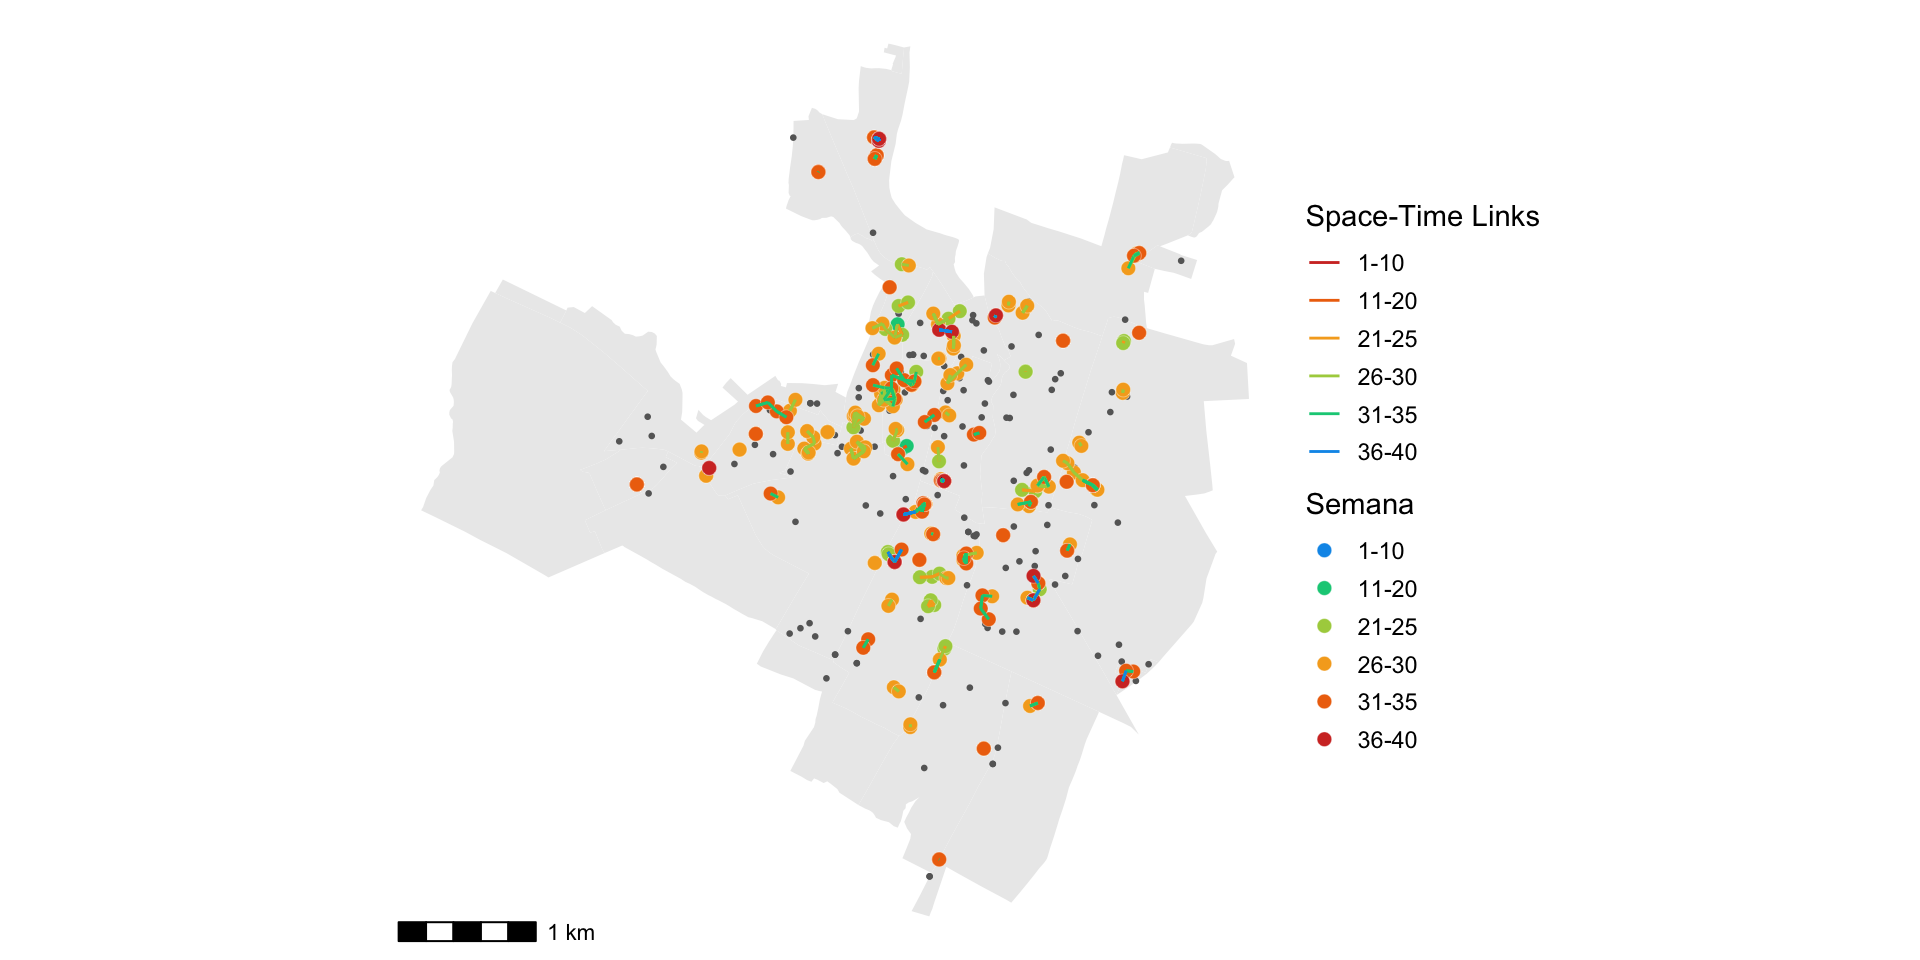
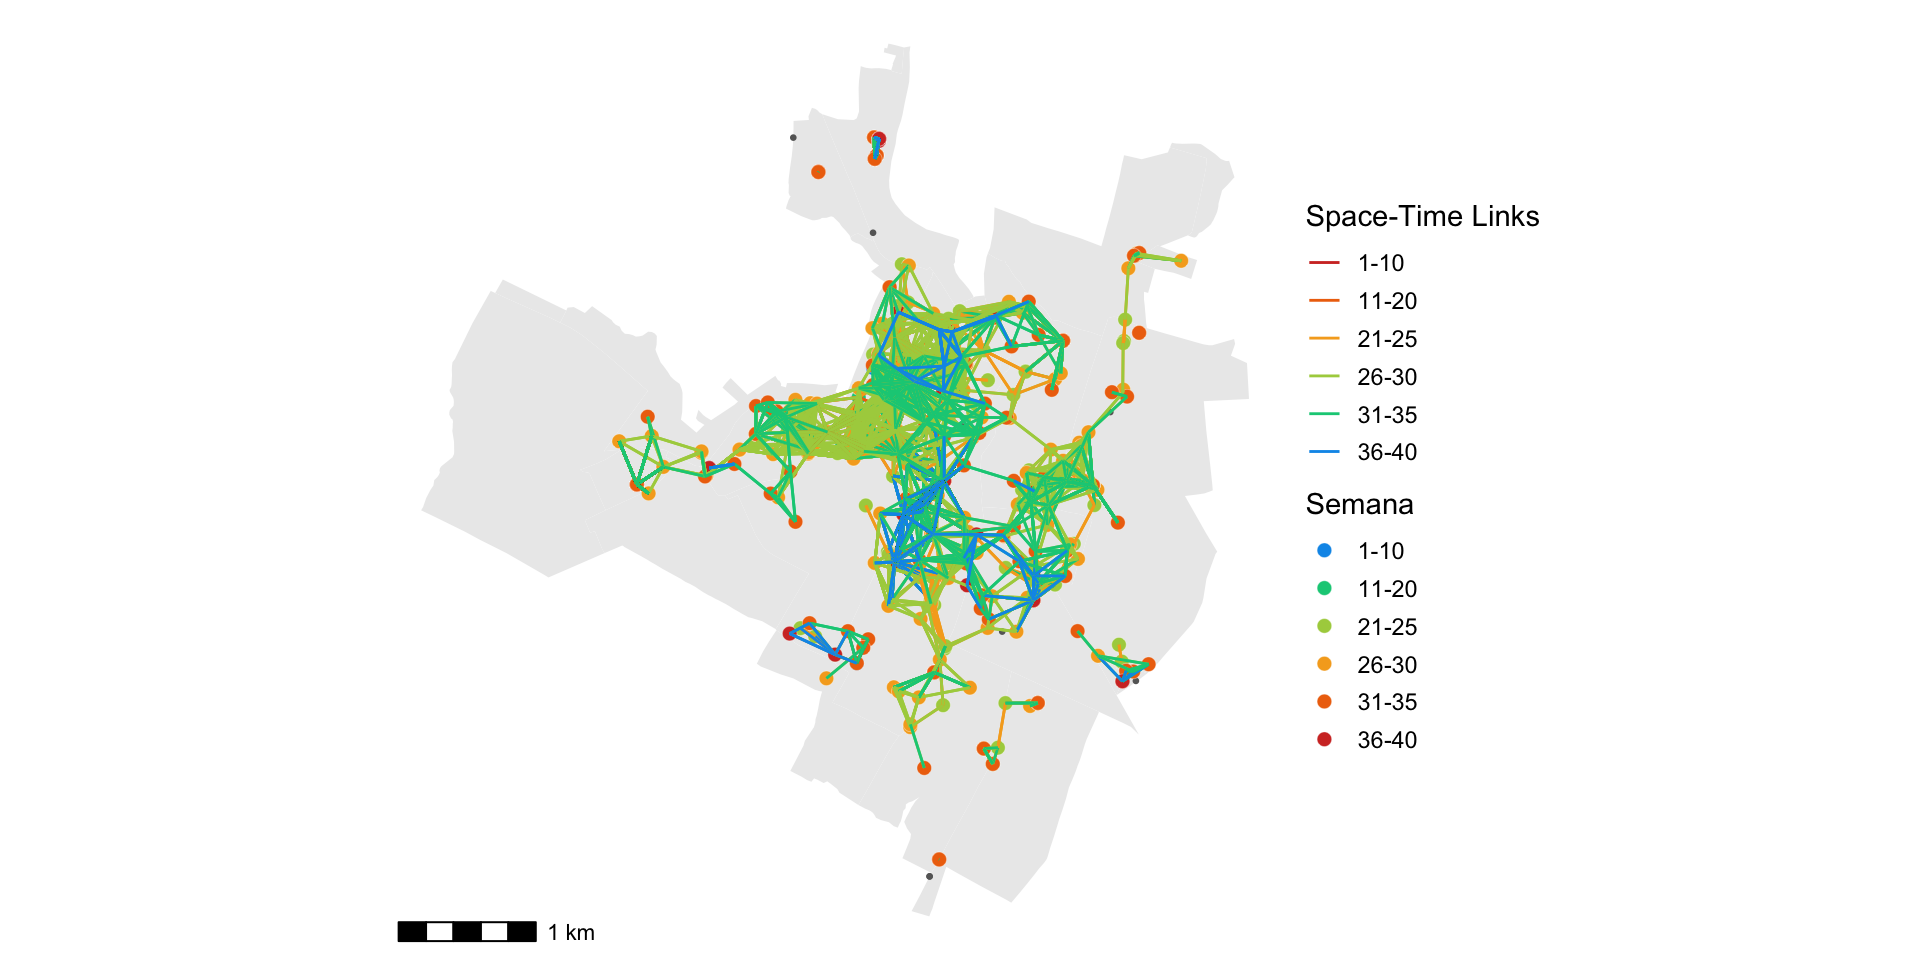
This commmit update the talk

Changed region(s): [[0.3125, 0.2812, 0.5938, 0.8125], [0.5625, 0.6562, 0.5938, 0.7188], [0.5938, 0.25, 0.625, 0.2812]]

diff --git a/mia/21_puebla/index.html b/mia/21_puebla/index.html
@@ -353,12 +353,62 @@ Update: 2023-09-14
 <p><svg aria-hidden="true" role="img" viewbox="0 0 496 512" style="height:1em;width:0.97em;vertical-align:-0.125em;margin-left:auto;margin-right:auto;font-size:inherit;fill:black;overflow:visible;position:relative;"><path d="M165.9 397.4c0 2-2.3 3.6-5.2 3.6-3.3.3-5.6-1.3-5.6-3.6 0-2 2.3-3.6 5.2-3.6 3-.3 5.6 1.3 5.6 3.6zm-31.1-4.5c-.7 2 1.3 4.3 4.3 4.9 2.6 1 5.6 0 6.2-2s-1.3-4.3-4.3-5.2c-2.6-.7-5.5.3-6.2 2.3zm44.2-1.7c-2.9.7-4.9 2.6-4.6 4.9.3 2 2.9 3.3 5.9 2.6 2.9-.7 4.9-2.6 4.6-4.6-.3-1.9-3-3.2-5.9-2.9zM244.8 8C106.1 8 0 113.3 0 252c0 110.9 69.8 205.8 169.5 239.2 12.8 2.3 17.3-5.6 17.3-12.1 0-6.2-.3-40.4-.3-61.4 0 0-70 15-84.7-29.8 0 0-11.4-29.1-27.8-36.6 0 0-22.9-15.7 1.6-15.4 0 0 24.9 2 38.6 25.8 21.9 38.6 58.6 27.5 72.9 20.9 2.3-16 8.8-27.1 16-33.7-55.9-6.2-112.3-14.3-112.3-110.5 0-27.5 7.6-41.3 23.6-58.9-2.6-6.5-11.1-33.3 2.6-67.9 20.9-6.5 69 27 69 27 20-5.6 41.5-8.5 62.8-8.5s42.8 2.9 62.8 8.5c0 0 48.1-33.6 69-27 13.7 34.7 5.2 61.4 2.6 67.9 16 17.7 25.8 31.5 25.8 58.9 0 96.5-58.9 104.2-114.8 110.5 9.2 7.9 17 22.9 17 46.4 0 33.7-.3 75.4-.3 83.6 0 6.5 4.6 14.4 17.3 12.1C428.2 457.8 496 362.9 496 252 496 113.3 383.5 8 244.8 8zM97.2 352.9c-1.3 1-1 3.3.7 5.2 1.6 1.6 3.9 2.3 5.2 1 1.3-1 1-3.3-.7-5.2-1.6-1.6-3.9-2.3-5.2-1zm-10.8-8.1c-.7 1.3.3 2.9 2.3 3.9 1.6 1 3.6.7 4.3-.7.7-1.3-.3-2.9-2.3-3.9-2-.6-3.6-.3-4.3.7zm32.4 35.6c-1.6 1.3-1 4.3 1.3 6.2 2.3 2.3 5.2 2.6 6.5 1 1.3-1.3.7-4.3-1.3-6.2-2.2-2.3-5.2-2.6-6.5-1zm-11.4-14.7c-1.6 1-1.6 3.6 0 5.9 1.6 2.3 4.3 3.3 5.6 2.3 1.6-1.3 1.6-3.9 0-6.2-1.4-2.3-4-3.3-5.6-2z"></path></svg> <a href="https://fdzul.github.io/web_site_fadm/">github.com/fdzul</a></p>
 <p><img data-src="chains_merida.jpg" class="absolute" style="top: 155px; left: 550px; width: 750px; "></p>
 </h4></section>
-<section id="escenarios-de-la-transmisión-activa" class="slide level2">
-<h2><span style="color:#003300">Escenarios de la Transmisión Activa</span></h2>
+<section id="distribución-de-casos-por-municipio" class="slide level2">
+<h2><span style="color:#003300">Distribución de Casos por Municipio</span></h2>
+<hr style="height:2px;border-width:0;color:#330019;background-color:#330019">
+
+<img data-src="index_files/figure-revealjs/unnamed-chunk-1-1.png" width="960" class="r-stretch"></section>
+<section id="transmisión-activa-izucar" class="slide level2">
+<h2><span style="color:#003300">Transmisión Activa Izucar</span></h2>
 <hr style="height:2px;border-width:0;color:#330019;background-color:#330019">
 <div class="cell">
 <div class="cell-output-display">
 <p><img data-src="index_files/figure-revealjs/risk_escenario_actual_izucar-1.png" style="width:100.0%;height:100.0%"></p>
+</div>
+</div>
+</section>
+<section id="transmisión-activa-tehuacán" class="slide level2">
+<h2><span style="color:#003300">Transmisión Activa Tehuacán</span></h2>
+<hr style="height:2px;border-width:0;color:#330019;background-color:#330019">
+<div class="cell">
+<div class="cell-output-display">
+<p><img data-src="index_files/figure-revealjs/risk_escenario_actual_tehuacan-1.png" style="width:100.0%;height:100.0%"></p>
+</div>
+</div>
+</section>
+<section id="transmisión-activa-acatlan" class="slide level2">
+<h2><span style="color:#003300">Transmisión Activa Acatlan</span></h2>
+<hr style="height:2px;border-width:0;color:#330019;background-color:#330019">
+<div class="cell">
+<div class="cell-output-display">
+<p><img data-src="index_files/figure-revealjs/risk_escenario_actual_acatlan-1.png" style="width:100.0%;height:100.0%"></p>
+</div>
+</div>
+</section>
+<section id="transmisión-activa-chietla" class="slide level2">
+<h2><span style="color:#003300">Transmisión Activa Chietla</span></h2>
+<hr style="height:2px;border-width:0;color:#330019;background-color:#330019">
+<div class="cell">
+<div class="cell-output-display">
+<p><img data-src="index_files/figure-revealjs/risk_escenario_actual_chietla-1.png" style="width:100.0%;height:100.0%"></p>
+</div>
+</div>
+</section>
+<section id="transmisión-activa-venustiano-carranza" class="slide level2">
+<h2><span style="color:#003300">Transmisión Activa Venustiano Carranza</span></h2>
+<hr style="height:2px;border-width:0;color:#330019;background-color:#330019">
+<div class="cell">
+<div class="cell-output-display">
+<p><img data-src="index_files/figure-revealjs/risk_escenario_actual_v_carranza-1.png" style="width:100.0%;height:100.0%"></p>
+</div>
+</div>
+</section>
+<section id="transmisión-activa-puebla" class="slide level2">
+<h2><span style="color:#003300">Transmisión Activa Puebla</span></h2>
+<hr style="height:2px;border-width:0;color:#330019;background-color:#330019">
+<div class="cell">
+<div class="cell-output-display">
+<p><img data-src="index_files/figure-revealjs/risk_escenario_actual_puebla-1.png" style="width:100.0%;height:100.0%"></p>
 </div>
 </div>
 </section>
